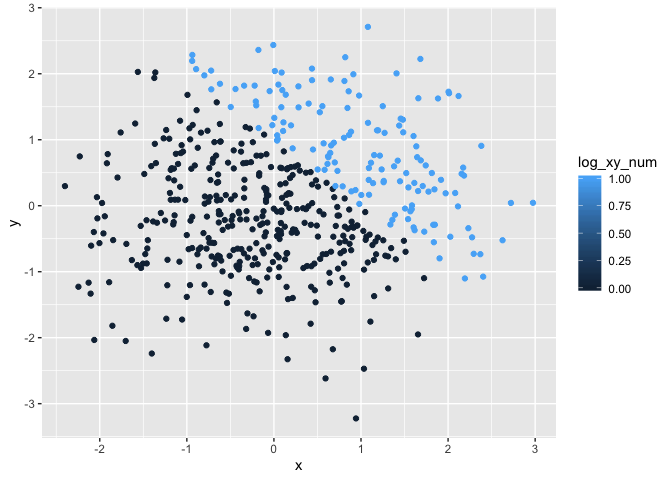
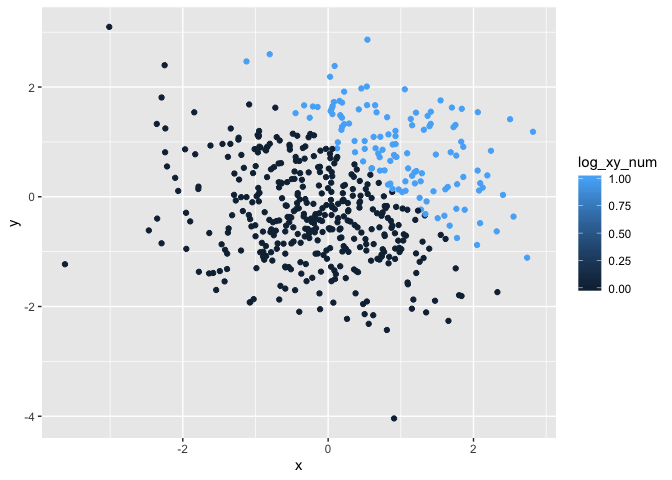
add comment.

diff --git a/p8105_hwk1_wx2233.md b/p8105_hwk1_wx2233.md
@@ -11,25 +11,26 @@ Weijia Xiong
 library(tidyverse)
 ```
 
-    ## ── Attaching packages ───────────────────────────────── tidyverse 1.2.1 ──
+    ## ── Attaching packages ────────────────────────────────────────────────────────────── tidyverse 1.2.1 ──
 
     ## ✔ ggplot2 3.2.1     ✔ purrr   0.3.2
     ## ✔ tibble  2.1.3     ✔ dplyr   0.8.3
     ## ✔ tidyr   0.8.3     ✔ stringr 1.4.0
     ## ✔ readr   1.3.1     ✔ forcats 0.4.0
 
-    ## ── Conflicts ──────────────────────────────────── tidyverse_conflicts() ──
+    ## ── Conflicts ───────────────────────────────────────────────────────────────── tidyverse_conflicts() ──
     ## ✖ dplyr::filter() masks stats::filter()
     ## ✖ dplyr::lag()    masks stats::lag()
 
 ``` r
 la_df = tibble(
-  norm_samp = rnorm(8,mean = 0, sd = 1),
+  norm_samp = rnorm(8,mean = 0, sd = 1), #standard Normal distribution
   norm_samp_pos = norm_samp > 0,
   char_vec = c("a","b","c","d","e","f","g","h"),
   fac_vec = factor(c("small","small","small","middle","middle","middle","large","large"))
 )
 
+#mean
 mean(pull(la_df,norm_samp))
 mean(pull(la_df,norm_samp_pos))
 mean(pull(la_df,char_vec))
@@ -42,8 +43,8 @@ as.numeric(pull(la_df,fac_vec))
 
 The mean of character vector and factor vector do not work.
 
-  - mean of random sample : -0.3920524
-  - mean of logical vector : 0.25
+  - mean of random sample : 0.309206
+  - mean of logical vector : 0.75
   - mean of character vector : NA
   - mean of factor vector : NA
 
@@ -62,7 +63,7 @@ log_to_num = as.numeric(pull(la_df,norm_samp_pos)) #convert into numeric
 log_to_num * (pull(la_df,norm_samp)) #multiply
 ```
 
-    ## [1] 0.0844871 0.0000000 0.0000000 0.0000000 0.0000000 2.0812677 0.0000000
+    ## [1] 0.1598073 1.3820479 2.1488115 0.2328449 0.0000000 0.7294521 0.7527965
     ## [8] 0.0000000
 
 ``` r
@@ -80,8 +81,8 @@ fac_to_num = as.numeric(log_to_fac)
 fac_to_num * (pull(la_df,norm_samp))
 ```
 
-    ## [1]  0.1689742 -0.3376198 -0.9486241 -0.5427625 -1.7455721  4.1625353
-    ## [7] -0.8922025 -0.8353927
+    ## [1]  0.3196147  2.7640958  4.2976231  0.4656898 -1.8776254  1.4589043
+    ## [7]  1.5055930 -1.0544872
 
 # Problem 2
 
@@ -99,10 +100,10 @@ plot_df = tibble(
 
   - The size of the dataset:  
     500 rows and 5 columns.
-  - The mean of x is 0.0829966
-  - The median of x is 0.0531725  
-  - The standard deviation of x is 1.0428524
-  - The proportion of cases for which x + y \> 1 is 0.29
+  - The mean of x is 0.0705042
+  - The median of x is 0.0538746  
+  - The standard deviation of x is 1.0158082
+  - The proportion of cases for which x + y \> 1 is 0.24
 
 ## 2\) Create scatter plots
 
